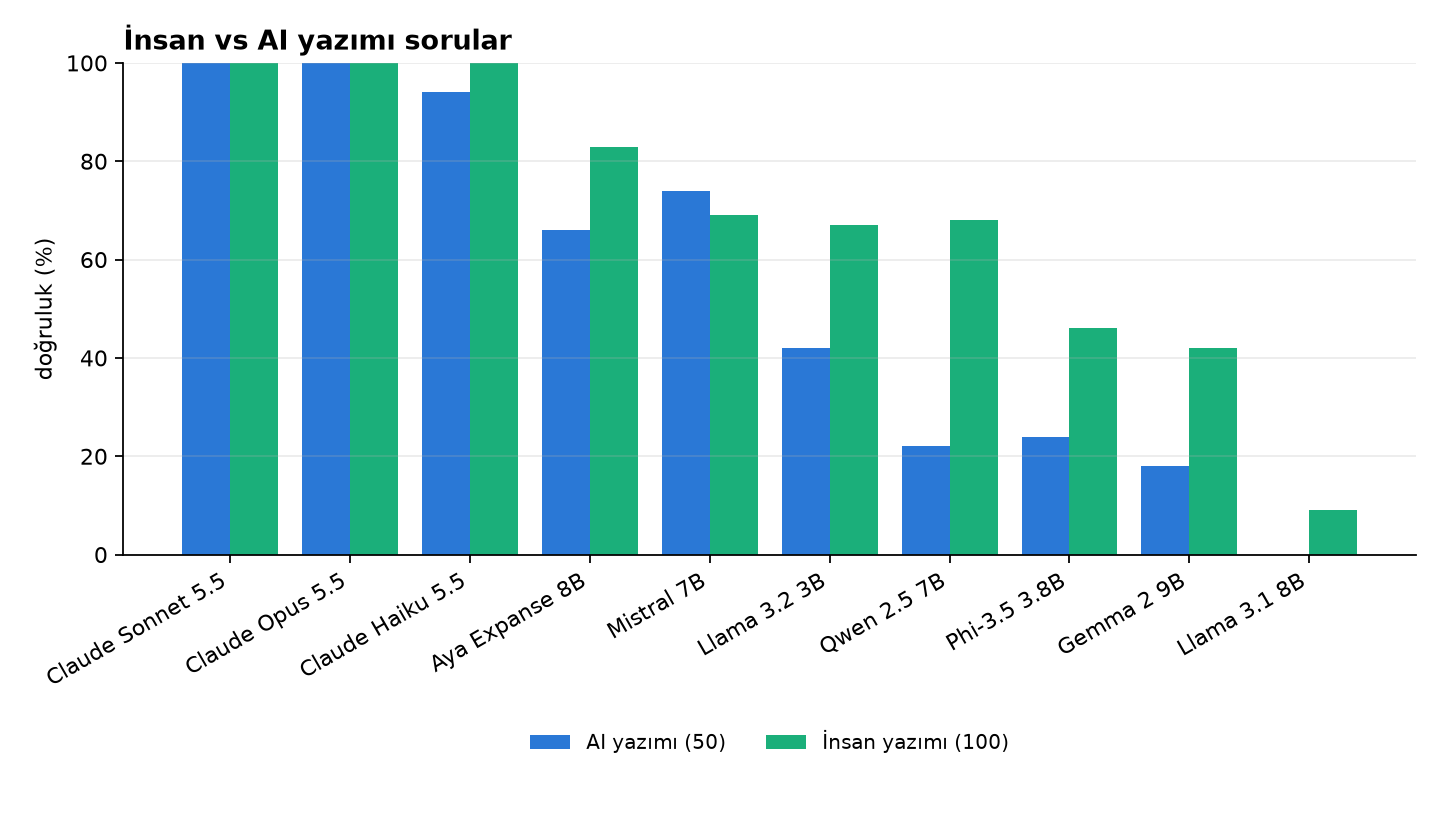
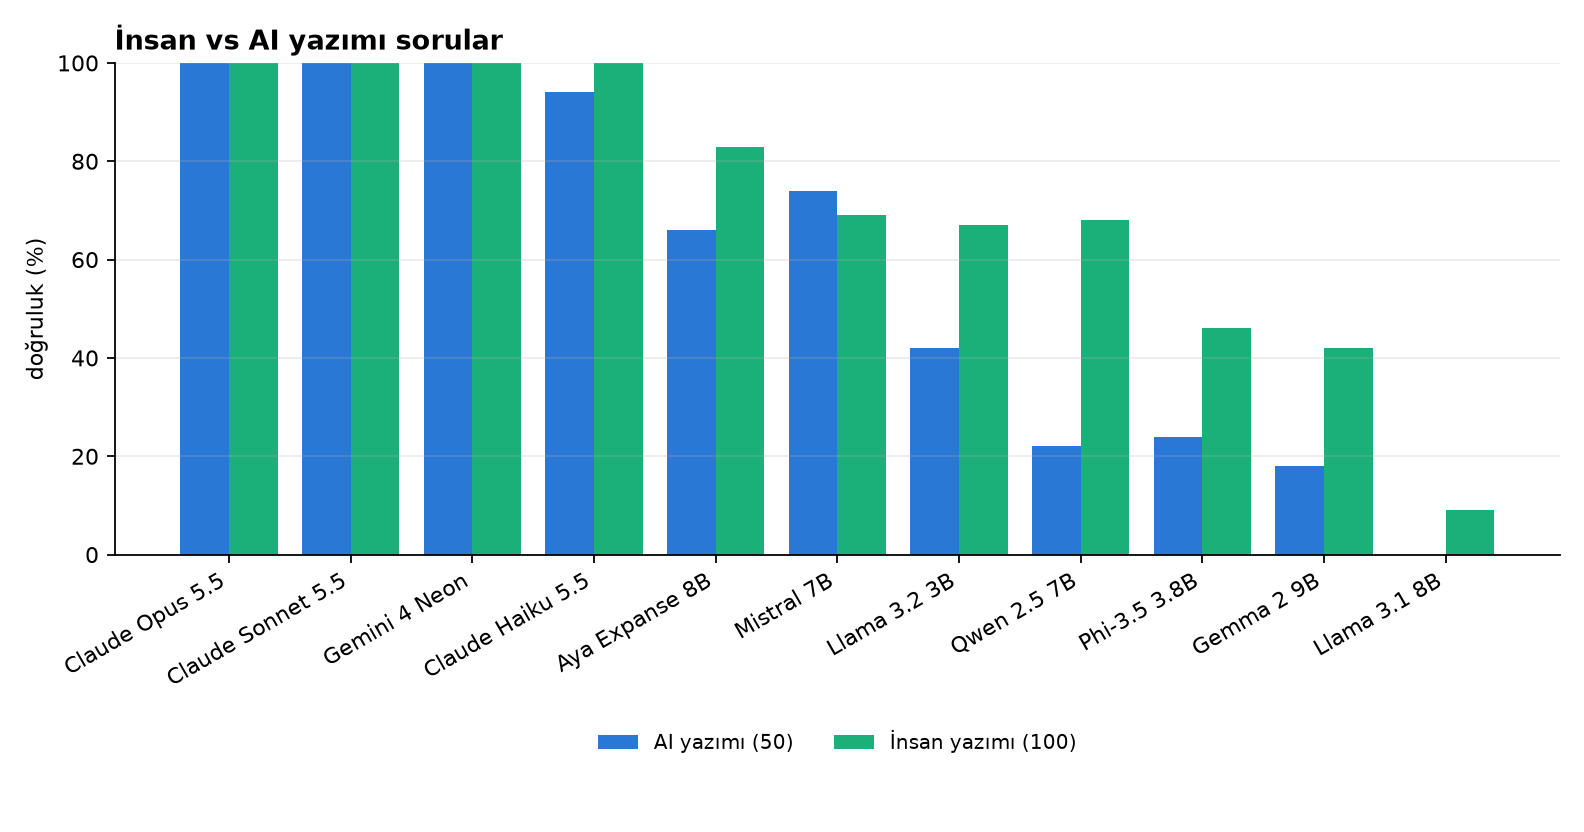
Add Gemini 4 Neon to the benchmark leaderboard

diff --git a/src/Benchmark.tsx b/src/Benchmark.tsx
@@ -6,6 +6,7 @@ type Row = { model: string; open: boolean; main: number; human: number; ai: numb
 const rows: Row[] = [
   { model: 'Claude Opus 5.5', open: false, main: 100, human: 100, ai: 100, facts: 3.0, fabNum: 0, fabName: 0, wikiOrig: 25, wikiChanged: 25 },
   { model: 'Claude Sonnet 5.5', open: false, main: 100, human: 100, ai: 100, facts: 3.0, fabNum: 0, fabName: 0, wikiOrig: 23, wikiChanged: 23 },
+  { model: 'Gemini 4 Neon', open: false, main: 100, human: 100, ai: 100, facts: 3.0, fabNum: 0, fabName: 0, sec: 13.0 },
   { model: 'Claude Haiku 5.5', open: false, main: 98, human: 100, ai: 94, facts: 2.98, fabNum: 0, fabName: 0, wikiOrig: 20, wikiChanged: 17 },
   { model: 'Aya Expanse 8B', open: true, main: 77, human: 83, ai: 66, facts: 2.76, fabNum: 1, fabName: 0, sec: 15.0, wikiOrig: 10, wikiChanged: 10 },
   { model: 'Mistral 7B', open: true, main: 71, human: 69, ai: 74, facts: 2.68, fabNum: 2, fabName: 1, sec: 14.3, wikiOrig: 12, wikiChanged: 11 },
@@ -28,7 +29,7 @@ export function BenchmarkPage() {
       <thead><tr><th>#</th><th>model</th><th>correct (150)</th><th>human (100)</th><th>AI (50)</th><th>facts / 3</th><th>made-up numbers</th><th>made-up names</th><th>s / question</th><th>wiki orig.</th><th>wiki changed</th></tr></thead>
       <tbody>{rows.map((r, i) => <tr key={r.model}><td>{i + 1}</td><td>{r.model}{r.open && <span className="benchmark-open">open</span>}</td><td><span className="benchmark-bar" style={{ width: `${r.main}%` }} /><strong>{r.main}%</strong></td><td>{r.human}%</td><td>{r.ai}%</td><td>{r.facts.toFixed(2)}</td><td className={r.fabNum >= 20 ? 'benchmark-bad' : ''}>{r.fabNum}%</td><td className={r.fabName >= 20 ? 'benchmark-bad' : ''}>{r.fabName}%</td><td>{r.sec ? r.sec.toFixed(1) : '–'}</td><td>{r.wikiOrig ?? '–'}{r.wikiOrig !== undefined && '/25'}</td><td>{r.wikiChanged ?? '–'}{r.wikiChanged !== undefined && '/25'}</td></tr>)}</tbody>
     </table></div>
-    <p className="section-description">AI-written questions turned out harder: open models average 55% on human questions and 35% on AI questions. The AI paragraphs are denser (5.4 numbers and 4.9 names per paragraph vs. 3.8 and 2.5), and models write summaries of the same length on both sets, so they drop more facts. "Wiki changed" is a memorization trap: real Wikipedia texts with one fact altered (e.g. Malazgirt 1071 → 1074). None of the 10 models wrote the memorized value instead of the one in the text. Every run was free (local models and subscription UIs), so time per question is shown instead of cost.</p>
+    <p className="section-description">AI-written questions turned out harder: open models average 55% on human questions and 35% on AI questions. The AI paragraphs are denser (5.4 numbers and 4.9 names per paragraph vs. 3.8 and 2.5), and models write summaries of the same length on both sets, so they drop more facts. "Wiki changed" is a memorization trap: real Wikipedia texts with one fact altered (e.g. Malazgirt 1071 → 1074). None of the 10 models in that experiment wrote the memorized value instead of the one in the text (Gemini was not part of it). Every run was free (local models and subscription UIs), so time per question is shown instead of cost; Gemini's time was measured in its web UI. Claude Opus, Claude Sonnet and Gemini 4 Neon got all 150 questions right.</p>
     <div className="benchmark-charts">
       <figure><img src="./benchmark/insan_ai.png" alt="Accuracy on human-written vs AI-written questions" loading="lazy" /><figcaption>Human-written vs AI-written questions</figcaption></figure>
       <figure><img src="./benchmark/model_kategori.png" alt="Accuracy by model and category on the human-written set" loading="lazy" /><figcaption>Accuracy by category (human-written set)</figcaption></figure>

diff --git a/src/data/projects.ts b/src/data/projects.ts
@@ -5,8 +5,8 @@ export const projects: Project[] = [
   {
     id: 'turkish-summary-benchmark',
     name: 'Turkish Summary Hallucination Benchmark',
-    shortDescription: 'Do LLMs keep the numbers, dates and names when they summarize Turkish text? 150 questions, 10 models.',
-    description: 'A benchmark I built to test LLM summaries in Turkish. Each question is a Turkish paragraph with three critical facts: a number, a date and a name. A model is correct only if its summary keeps all three and invents nothing. A Python scorer handles Turkish spellings (12 Mart = 12.03, yüzde 45 = %45) and flags made-up numbers and names. The set has 100 hand-written and 50 AI-written questions, labeled separately. I ran 3 Claude models and 7 open models on my Mac with Ollama, then added a memorization trap: real Turkish Wikipedia texts with one fact changed (Malazgirt 1071 → 1074) to see if models trust the text or their memory.',
+    shortDescription: 'Do LLMs keep the numbers, dates and names when they summarize Turkish text? 150 questions, 11 models.',
+    description: 'A benchmark I built to test LLM summaries in Turkish. Each question is a Turkish paragraph with three critical facts: a number, a date and a name. A model is correct only if its summary keeps all three and invents nothing. A Python scorer handles Turkish spellings (12 Mart = 12.03, yüzde 45 = %45) and flags made-up numbers and names. The set has 100 hand-written and 50 AI-written questions, labeled separately. I ran 3 Claude models, Gemini 4 Neon and 7 open models (locally on my Mac with Ollama), then added a memorization trap: real Turkish Wikipedia texts with one fact changed (Malazgirt 1071 → 1074) to see if models trust the text or their memory.',
     technologies: ['Python', 'Ollama', 'LLM evaluation', 'matplotlib'],
     category: 'AI / EVALUATION',
     githubUrl: 'https://github.com/foqunty/turkce-ozet-halusinasyon-benchmark',
@@ -14,7 +14,7 @@ export const projects: Project[] = [
     releaseDate: '2026',
     problem: 'Summaries that silently change a number or a name are dangerous, and there was no small Turkish test for it.',
     features: [
-      'Claude Opus and Sonnet 150/150; best open models Aya Expanse 8B (77%) and Mistral 7B (71%)',
+      'Claude Opus, Claude Sonnet and Gemini 4 Neon 150/150; best open models Aya Expanse 8B (77%) and Mistral 7B (71%)',
       'AI-written questions were harder than hand-written ones (35% vs 55% for open models) because they are denser',
       'Two failure types: models that drop facts vs. models that invent them (Phi-3.5: 45% of summaries)',
       'Memorization trap: none of the 10 models wrote the memorized value over the changed text',
